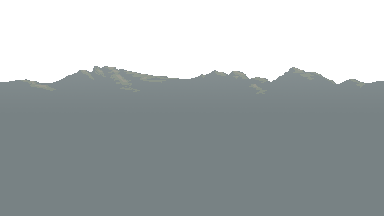
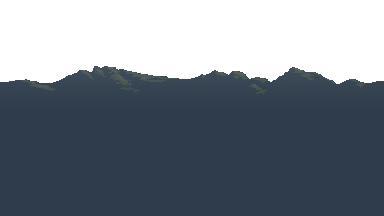
Mine

diff --git a/Classes/EnvironmentUI.cpp b/Classes/EnvironmentUI.cpp
@@ -175,6 +175,11 @@ void EnvironmentUI::setBackground()
 	skySpr->setPositionY(-CAMERA_OFFSET_Y);
 	baseNode->addChild(skySpr, SKY_Z_ORDER);
 
+	nightSkySpr = Sprite::create(NIGHT_SKY_SPR);
+	nightSkySpr->setPositionY(-CAMERA_OFFSET_Y);
+	nightSkySpr->setOpacity(0);
+	baseNode->addChild(nightSkySpr, SKY_Z_ORDER);
+
 	if (random(0, 2) == 0) {
 		windDirection.right = false;
 		windDirection.left = true;
@@ -208,17 +213,19 @@ void EnvironmentUI::setBackground()
 	setSeamlessSprite(LAYER_TREES_BACK_SPR,LAYER_TREES_BACK_SPEED, BACK_TREES_BACK_OFFSET, BACK_TREES_Z_ORDER);
 	setSeamlessSprite(LAYER_TREES_SPR,LAYER_TREES_SPEED, BACK_TREES_OFFSET, BACK_TREES_BACK_Z_ORDER);
 
+
+
 }
 
 void EnvironmentUI::setDarkness()
 {
-	auto seq = Sequence::create
+
+	nightSkySpr->runAction(Sequence::create
 	(
 		FadeIn::create(DAY_DURATION / 8),
 		DelayTime::create(DAY_DURATION / 8 * 2),
-		FadeOut::create(DAY_DURATION / 8),nullptr
-	);
-	//skySpr->runAction()
+		FadeOut::create(DAY_DURATION / 8), nullptr
+	));
 }
 
 void EnvironmentUI::setSeamlessSprite(string path, float speed, int yOffset, int zOrder)

diff --git a/Classes/EnemyController.cpp b/Classes/EnemyController.cpp
@@ -1,5 +1,6 @@
 #include "EnemyController.h"
 #include "BuildingController.h"
+#include "EnvironmentUI.h"
 
 int EnemyController::enemNum = 0;
 
@@ -50,6 +51,8 @@ void EnemyController::startSpawn(int numOfEnemys, Vec2 posToSpawn) {
 
 void EnemyController::timeDependedAction() {
 	
+	EnvironmentUI::getInstance()->setDarkness();
+
 	startSpawn(enemNum, Vec2(0, GENERAL_Y));
 	startSpawn(enemNum, Vec2(Enviroment::getInstance()->getGroundWidth(), GENERAL_Y));
 	

diff --git a/Classes/EnvironmentUI.h b/Classes/EnvironmentUI.h
@@ -11,6 +11,7 @@ private:
 	static EnvironmentUI* environmentUI;
 	Node* baseNode;
 	Sprite* skySpr;
+	Sprite* nightSkySpr;
 	Sprite* cloudsSpr;
 
 	map<Sprite*, float> parallaxMap;
